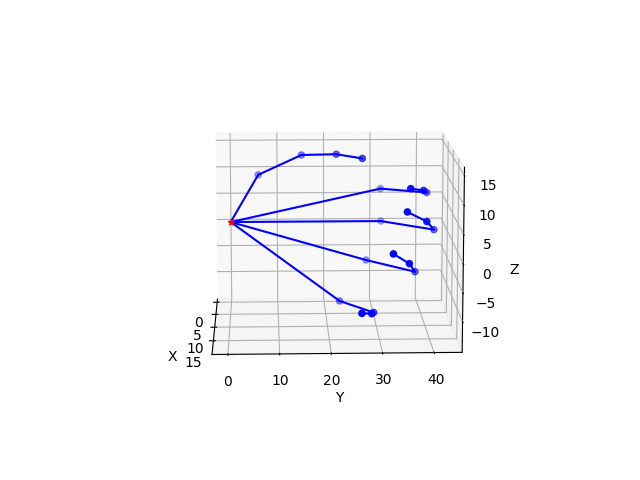
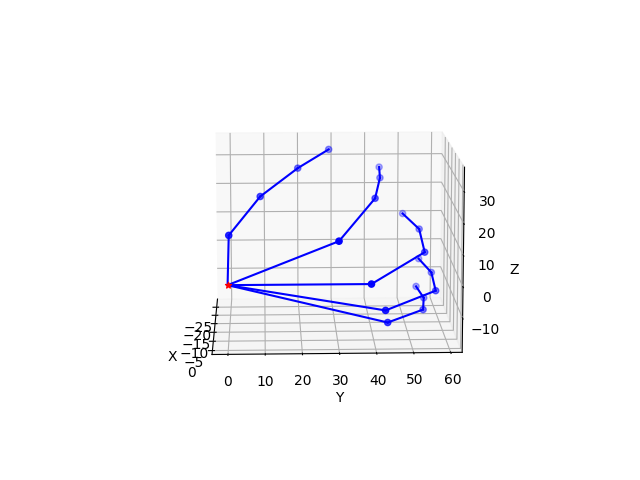
scale joint 1 by weight of joint 2

Changed region(s): [[0.2812, 0.2812, 0.7812, 0.7812], [0.4062, 0.7812, 0.7188, 0.8125]]

diff --git a/hand_landmarks/tools.py b/hand_landmarks/tools.py
@@ -251,10 +251,38 @@ def calculate_angles_between_joints(wrist_XYZ: NDArray, fingers_XYZ_wrt_wrist: N
                                     fingers_XYZ_wrt_wrist[1:, 3, :] - fingers_XYZ_wrt_wrist[1:, 2, :],
                                     project_to="xy")
 
+    joint_1_weight = np.interp(np.absolute(angles[1:, 1]), [0, 90], [1, 0])
+    angles[1:, 0] *= joint_1_weight
+
+    angles = bound_angles(angles, degrees=True)
+
     if not degrees:
         angles = angles * math.pi / 180                                     
     return angles
 
+def bound_angles(angles, degrees=True):
+    joint_1_min_degree, joint_1_max_degree = -35, 35
+    joint_2_min_degree, joint_2_max_degree = -100, 8
+    joint_3_min_degree, joint_3_max_degree = -100, 8
+    joint_4_min_degree, joint_4_max_degree = -100, 8
+
+    if degrees:
+        joint_1_min, joint_1_max = joint_1_min_degree, joint_1_max_degree
+        joint_2_min, joint_2_max = joint_2_min_degree, joint_2_max_degree
+        joint_3_min, joint_3_max = joint_3_min_degree, joint_3_max_degree
+        joint_4_min, joint_4_max = joint_4_min_degree, joint_4_max_degree
+    else:
+        joint_1_min, joint_1_max = joint_1_min_degree * math.pi / 180, joint_1_max_degree * math.pi / 180
+        joint_2_min, joint_2_max = joint_2_min_degree * math.pi / 180, joint_2_max_degree * math.pi / 180
+        joint_3_min, joint_3_max = joint_3_min_degree * math.pi / 180, joint_3_max_degree * math.pi / 180
+        joint_4_min, joint_4_max = joint_4_min_degree * math.pi / 180, joint_4_max_degree * math.pi / 180
+
+    angles[:, 0] = np.clip(angles[:, 0], joint_1_min, joint_1_max)
+    angles[:, 1] = np.clip(angles[:, 1], joint_2_min, joint_2_max)
+    angles[:, 2] = np.clip(angles[:, 2], joint_3_min, joint_3_max)
+    angles[:, 3] = np.clip(angles[:, 3], joint_4_min, joint_4_max)
+
+    return angles
 
 def plot_3d(origin_coords, x, y, z):
     fig = plt.figure()

diff --git a/hand_landmarks/hand_lmks_2_cams.py b/hand_landmarks/hand_lmks_2_cams.py
@@ -215,7 +215,7 @@ if __name__ == "__main__":
             writs_XYZ, fingers_XYZ_wrt_wrist = convert_to_wrist_coord(fused_XYZ)
 
             # 4. Calculate angles
-            angles = calculate_angles_between_joints(writs_XYZ, fingers_XYZ_wrt_wrist, degrees=False)
+            #angles = calculate_angles_between_joints(writs_XYZ, fingers_XYZ_wrt_wrist, degrees=False)
 
             # 5. Plot (optional)
             plot_3d(writs_XYZ, fingers_XYZ_wrt_wrist[:, :, 0], fingers_XYZ_wrt_wrist[:, :, 1], fingers_XYZ_wrt_wrist[:, :, 2])
